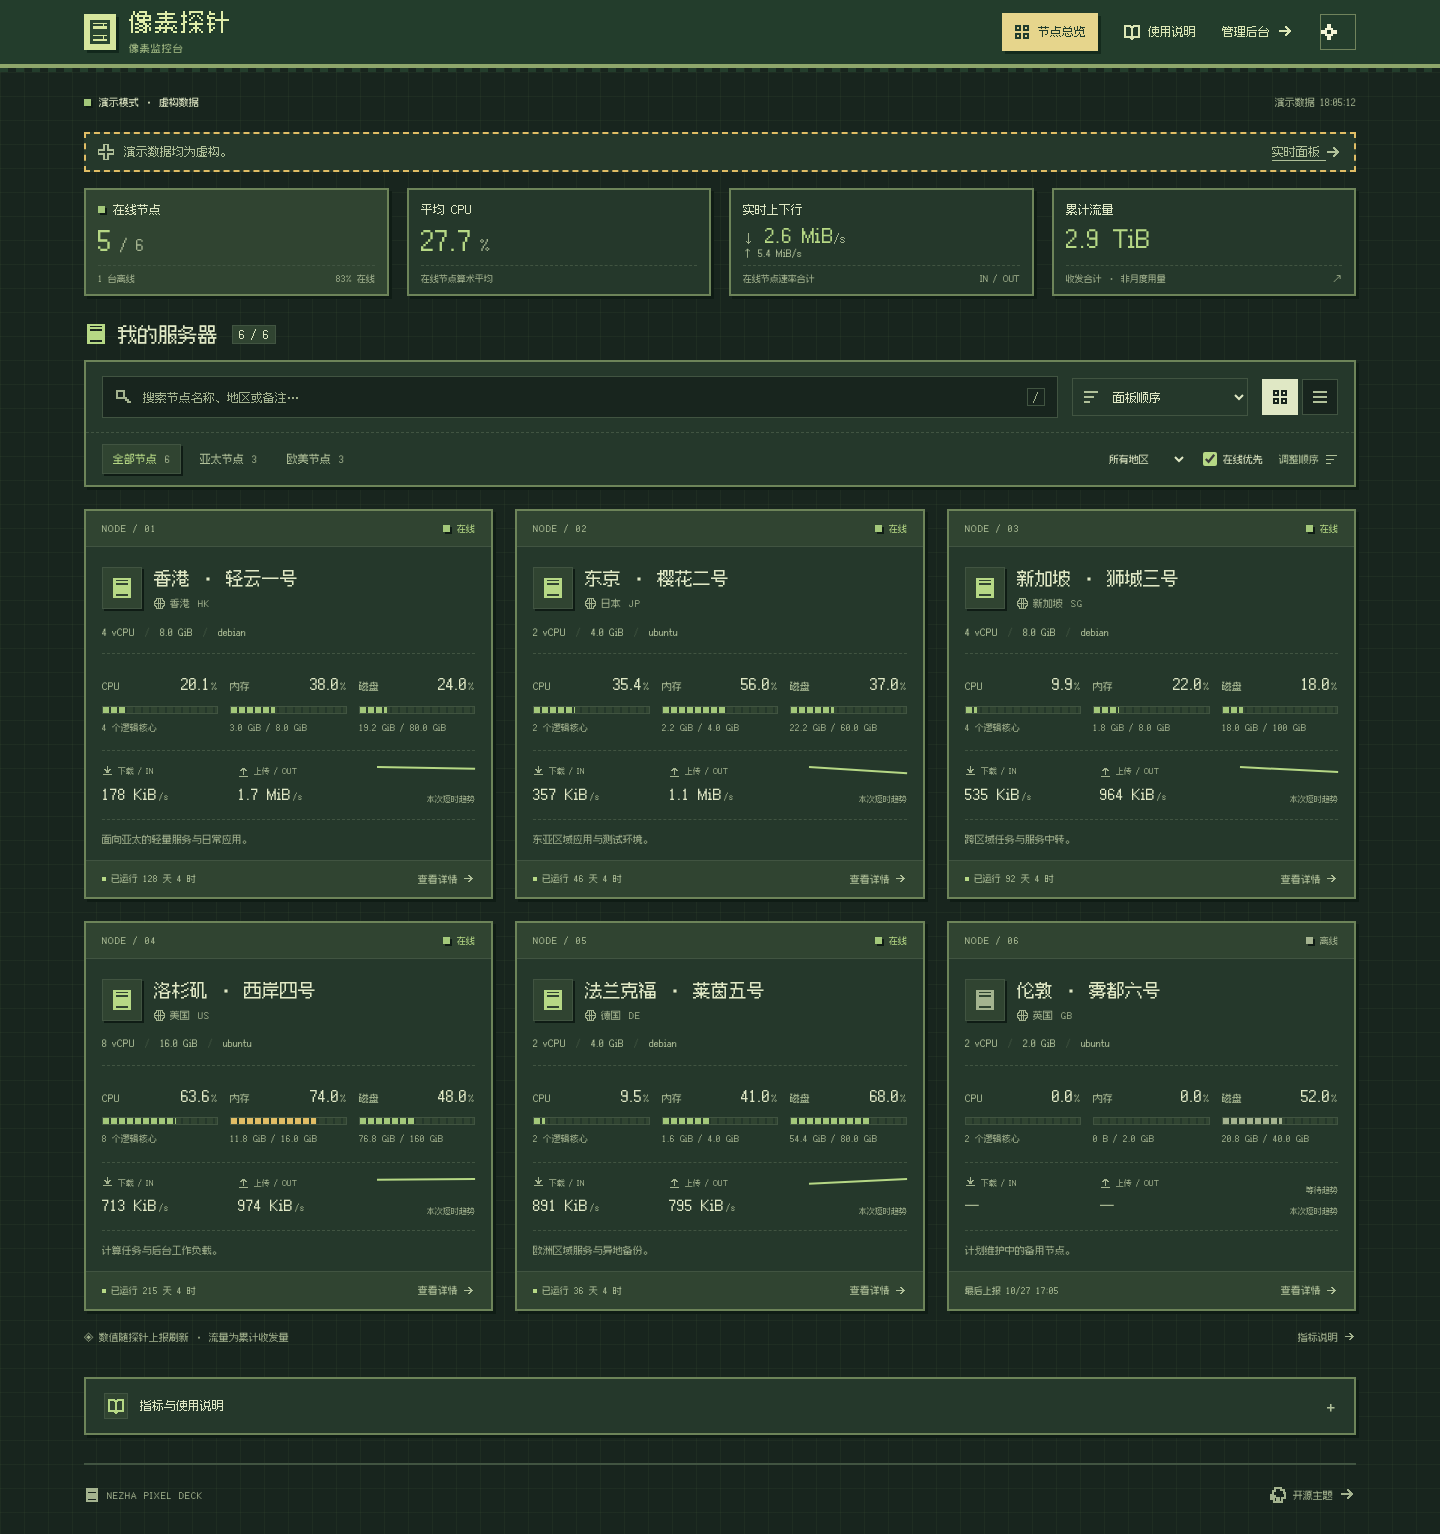
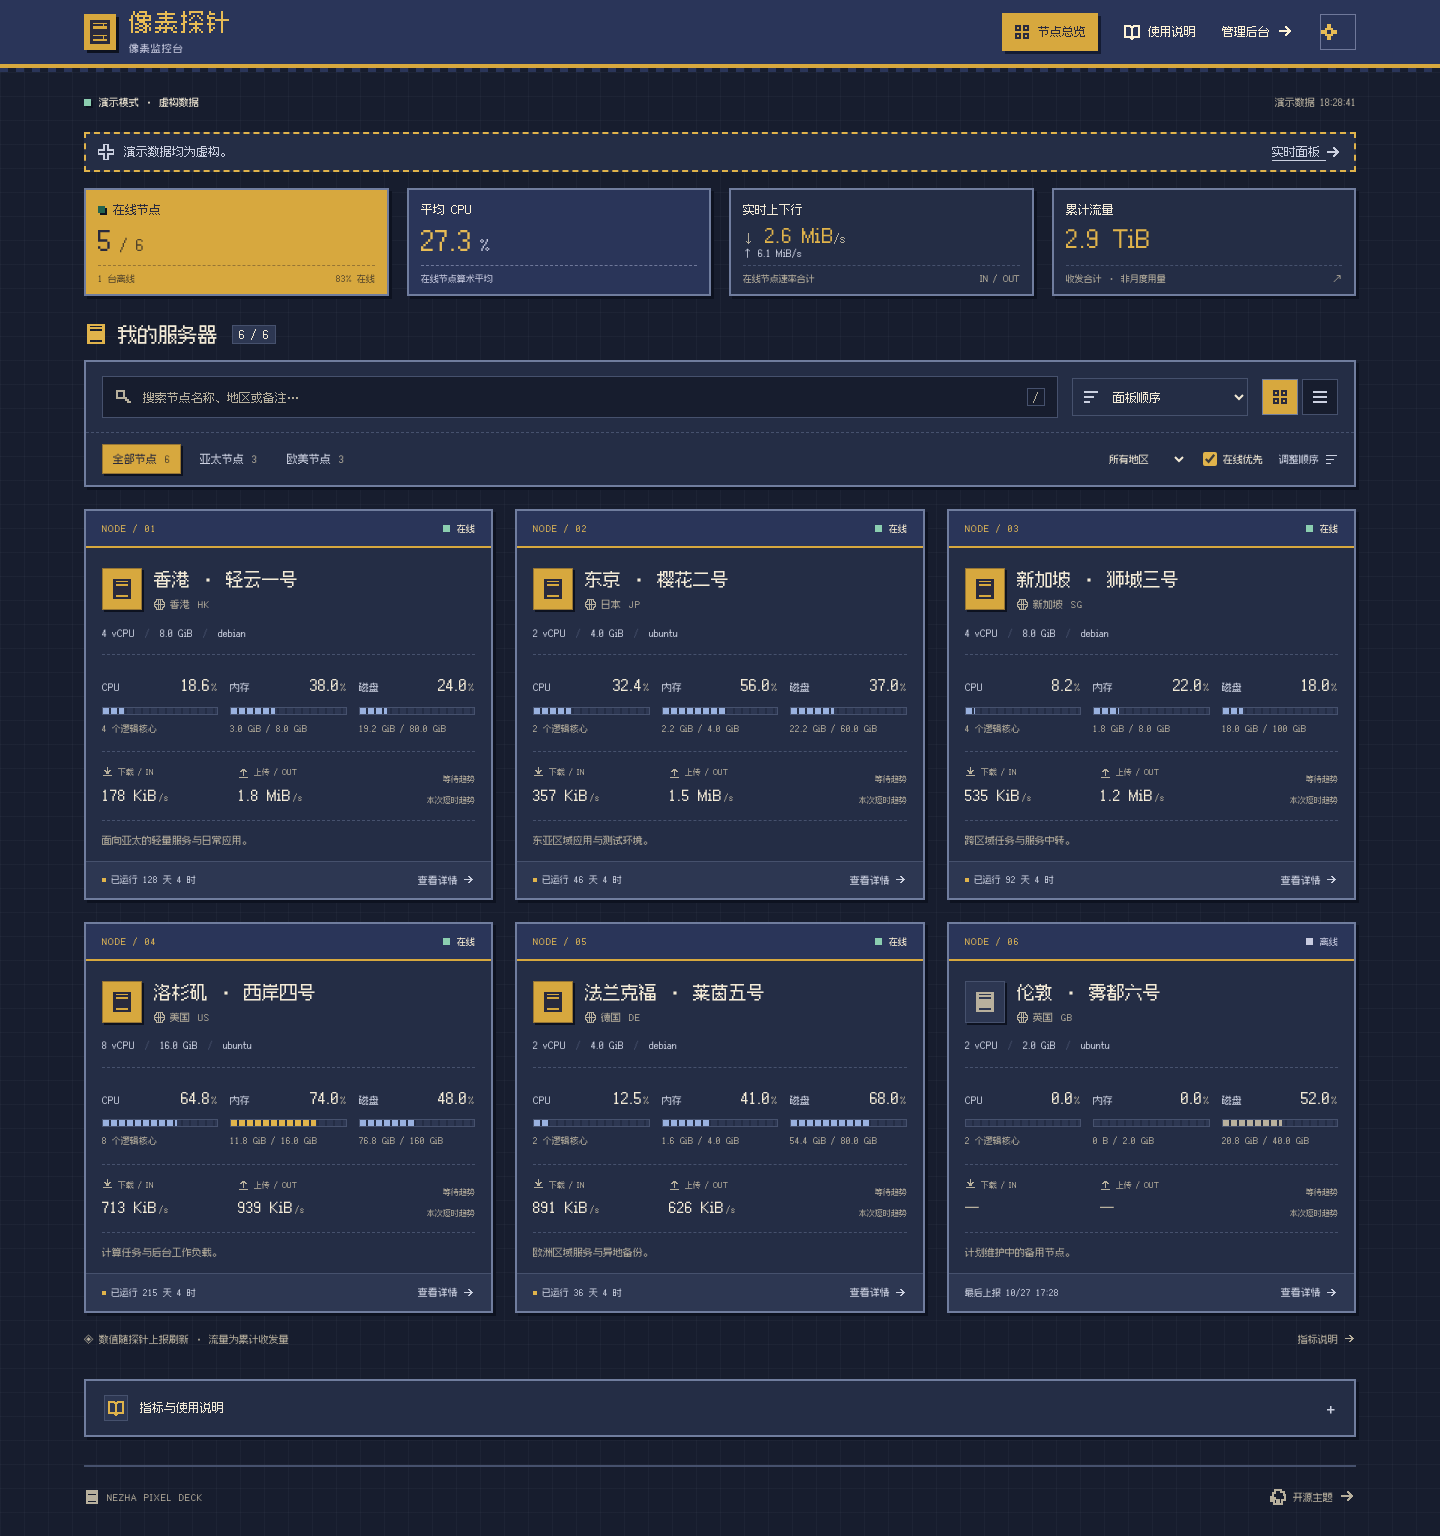
feat: use mustard yellow and indigo pixel palette

diff --git a/src/style.css b/src/style.css
@@ -9,42 +9,51 @@
 :root {
   font-family: Pixel, ui-monospace, monospace;
   color: var(--ink);
-  background: #eff2db;
-  --bg: #eff2db;
-  --ink: #263e2c;
-  --secondary: #566a45;
-  --muted: #6d7d57;
-  --line: #c5d0a4;
-  --frame: #3f5838;
-  --panel: #fcfcea;
-  --panel-alt: #e8edce;
-  --accent: #517437;
-  --lime: #d9ec9a;
-  --gold: #ead58d;
-  --shadow: #c5d19e;
-  --good: #6b914c;
-  --warning: #b18b35;
-  --danger: #ba5b4e;
+  background: var(--bg);
+  --bg: #f6f0e3;
+  --ink: #28324f;
+  --secondary: #51566d;
+  --muted: #716956;
+  --line: #d7c9a8;
+  --frame: #35405f;
+  --panel: #fffaf0;
+  --panel-alt: #eee7d7;
+  --accent: #465b91;
+  --mustard: #d7a83e;
+  --mustard-hover: #e8bc55;
+  --on-mustard: #292a3d;
+  --mustard-muted: #51432b;
+  --mustard-line: #967534;
+  --header: #2a3559;
+  --on-header: #fff3d6;
+  --header-muted: #c8cbe0;
+  --header-line: #6f789a;
+  --shadow: #c5b58e;
+  --grid: #8c754518;
+  --good: #48648e;
+  --online: #24745b;
+  --warning: #bd861e;
+  --danger: #bd5244;
   --radius: 0;
   font-synthesis: none;
   color-scheme: light;
 }
 :root[data-theme="dark"] {
-  --bg: #18251e;
-  --ink: #e0e8c5;
-  --secondary: #b0c099;
-  --muted: #a4b38f;
-  --line: #415441;
-  --frame: #6d8459;
-  --panel: #25382b;
-  --panel-alt: #304431;
-  --accent: #b6d885;
-  --lime: #d9ec9a;
-  --gold: #e8cd87;
-  --shadow: #0f1c15;
-  --good: #a3c87a;
-  --warning: #e0bd65;
-  --danger: #ed9183;
+  --bg: #171d2e;
+  --ink: #f3ead6;
+  --secondary: #cbd0e0;
+  --muted: #b8b09d;
+  --line: #46516d;
+  --frame: #707d9e;
+  --panel: #242d45;
+  --panel-alt: #2d3752;
+  --accent: #e0b34b;
+  --shadow: #0d1220;
+  --grid: #b5bddd0a;
+  --good: #99b1df;
+  --online: #8bceb0;
+  --warning: #e0b34b;
+  --danger: #ee947f;
   color-scheme: dark;
 }
 * {
@@ -59,8 +68,8 @@ body {
   min-width: 320px;
   background-color: var(--bg);
   background-image:
-    linear-gradient(#78945513 1px, transparent 1px),
-    linear-gradient(90deg, #78945513 1px, transparent 1px);
+    linear-gradient(var(--grid) 1px, transparent 1px),
+    linear-gradient(90deg, var(--grid) 1px, transparent 1px);
   background-size: 24px 24px;
   font-size: 12px;
   line-height: 1.65;
@@ -148,8 +157,8 @@ option {
   top: -80px;
   left: 20px;
   z-index: 20;
-  background: var(--lime);
-  color: #263e2c;
+  background: var(--mustard);
+  color: var(--on-mustard);
   padding: 12px;
 }
 .skip-link:focus {
@@ -166,9 +175,9 @@ option {
   box-shadow: 3px 3px 0 var(--shadow);
 }
 .topbar {
-  background: #233d2c;
-  color: #dce7b6;
-  border-bottom: 4px solid #8ea66b;
+  background: var(--header);
+  color: var(--on-header);
+  border-bottom: 4px solid var(--mustard);
   position: relative;
 }
 .topbar:after {
@@ -180,7 +189,7 @@ option {
   height: 4px;
   background: repeating-linear-gradient(
     90deg,
-    #233d2c 0 8px,
+    var(--header) 0 8px,
     transparent 8px 16px
   );
 }
@@ -202,9 +211,9 @@ option {
 .brand-mark {
   width: 32px;
   height: 36px;
-  background: #d6e69d;
-  color: #294631;
-  box-shadow: 3px 3px #12281c;
+  background: var(--mustard);
+  color: var(--on-mustard);
+  box-shadow: 3px 3px var(--shadow);
   display: grid;
   place-items: center;
 }
@@ -218,14 +227,14 @@ option {
   font-weight: 400;
   line-height: 1.15;
   letter-spacing: 2px;
-  color: #e0edaa;
+  color: var(--mustard-hover);
 }
 .brand small {
   display: block;
   font-size: 10px;
   margin-top: 4px;
   letter-spacing: 1px;
-  color: #a8bf88;
+  color: var(--header-muted);
 }
 .topbar nav {
   display: flex;
@@ -241,18 +250,18 @@ option {
   white-space: nowrap;
 }
 .topbar nav .nav-current {
-  color: #203c2c;
-  background: #e6d58c;
+  color: var(--on-mustard);
+  background: var(--mustard);
   padding: 8px 12px;
-  box-shadow: 3px 3px #142b1d;
+  box-shadow: 3px 3px #141c34;
 }
 .topbar nav > a:hover,
 .topbar nav > button:hover {
-  color: #f5f5d7;
+  color: var(--mustard-hover);
 }
 .topbar nav .nav-current:hover {
-  color: #203c2c;
-  background: #f3e4a6;
+  color: var(--on-mustard);
+  background: var(--mustard-hover);
 }
 .icon-button {
   display: inline-grid;
@@ -262,7 +271,7 @@ option {
   height: 36px;
 }
 .topbar #theme-button {
-  border: 1px solid #70835c;
+  border: 1px solid var(--header-line);
   min-height: 34px;
 }
 .shell {
@@ -295,7 +304,7 @@ option {
   display: inline-block;
   width: 7px;
   height: 7px;
-  background: var(--good);
+  background: var(--online);
   box-shadow: 2px 2px var(--shadow);
   flex: none;
 }
@@ -334,7 +343,19 @@ option {
   flex-direction: column;
 }
 .stat-online {
-  background: var(--panel-alt);
+  --accent: var(--on-mustard);
+  --muted: var(--mustard-muted);
+  --line: var(--mustard-line);
+  --online: #24644f;
+  background: var(--mustard);
+  color: var(--on-mustard);
+}
+.stat:nth-child(2) {
+  --accent: var(--mustard-hover);
+  --muted: var(--header-muted);
+  --line: var(--header-line);
+  background: var(--header);
+  color: var(--on-header);
 }
 .stat-label {
   display: flex;
@@ -497,9 +518,9 @@ option {
   color: var(--secondary);
 }
 .view-buttons button[aria-pressed="true"] {
-  background: var(--ink);
-  border-color: var(--ink);
-  color: var(--bg);
+  background: var(--mustard);
+  border-color: var(--frame);
+  color: var(--on-mustard);
 }
 .filters {
   display: flex;
@@ -525,10 +546,13 @@ option {
   border: 1px solid transparent;
 }
 .tab.active {
-  background: var(--panel-alt);
-  border-color: var(--line);
-  color: var(--accent);
+  background: var(--mustard);
+  border-color: var(--mustard-line);
+  color: var(--on-mustard);
   box-shadow: 2px 2px var(--shadow);
+}
+.tab.active small {
+  color: var(--mustard-muted);
 }
 .tab small {
   font-size: 10px;
@@ -617,20 +641,27 @@ option {
   justify-content: space-between;
   align-items: center;
   padding: 10px 16px;
-  background: var(--panel-alt);
-  border-bottom: 1px solid var(--line);
+  background: var(--header);
+  border-bottom: 2px solid var(--mustard);
   font-size: 9px;
   letter-spacing: 1px;
 }
 .node-number {
-  color: var(--secondary);
+  color: var(--mustard-hover);
 }
 .node-status {
   display: flex;
   align-items: center;
   gap: 7px;
   letter-spacing: 0;
-  color: var(--accent);
+  color: var(--on-header);
+}
+.card-top .status-dot {
+  background: #8bceb0;
+  box-shadow: none;
+}
+.card-top .status-dot.offline {
+  background: var(--header-muted);
 }
 .node-title {
   display: flex;
@@ -641,12 +672,12 @@ option {
 .node-avatar {
   display: grid;
   place-items: center;
-  background: var(--panel-alt);
-  border: 1px solid var(--line);
+  background: var(--mustard);
+  border: 1px solid var(--mustard-line);
   width: 40px;
   height: 42px;
   box-shadow: 2px 2px var(--shadow);
-  color: var(--accent);
+  color: var(--on-mustard);
   flex: none;
 }
 .node-avatar .icon {
@@ -869,10 +900,12 @@ option {
   height: 12px;
 }
 .is-offline .node-avatar {
+  background: var(--panel-alt);
+  border-color: var(--line);
   color: var(--muted);
 }
 .is-offline .node-status {
-  color: var(--muted);
+  color: var(--header-muted);
 }
 .is-offline .meter > span {
   background: var(--muted);
@@ -1049,7 +1082,7 @@ dialog {
   overscroll-behavior: contain;
 }
 dialog::backdrop {
-  background: #102919a8;
+  background: #10182bc4;
 }
 .detail-heading {
   display: flex;
@@ -1139,7 +1172,7 @@ dialog::backdrop {
   width: 5px;
   border: none;
   padding: 0;
-  background: var(--accent);
+  background: var(--mustard);
 }
 .compact .node-number,
 .compact .node-status,

diff --git a/src/main.ts b/src/main.ts
@@ -106,7 +106,7 @@ app.innerHTML = `
 <div id="connection-notice" class="connection-notice" role="status" hidden></div>
 <div id="node-grid" class="node-grid" aria-label="服务器列表"></div>
 <div class="fleet-footnote"><span>◈ 数值随探针上报刷新 · 流量为累计收发量</span><a href="#guide" id="guide-link">指标说明 ${icon("arrow")}</a></div></section>
-<details class="guide frame" id="guide"><summary class="guide-heading"><span class="guide-mark">${icon("book")}</span><span class="guide-title">指标与使用说明</span><span class="guide-toggle" aria-hidden="true">+</span></summary><div class="guide-grid"><article><h3>资源使用率</h3><p>CPU 是当前使用率；内存与磁盘为已用容量占总量的比例。绿色表示余量充足，70% 起变为黄色，90% 起变为红色。</p></article><article><h3>上下行与累计流量</h3><p>↓ 是服务器接收，↑ 是服务器发送；速率单位为字节每秒。累计流量来自探针计数，通常随系统重启归零，不代表本月账单。</p></article><article><h3>在线与数据时效</h3><p>最近 30 秒有探针上报才算在线。断线或数据过期时，页面会明确提示，并把旧读数标为快照，避免误判为实时状态。</p></article></div><details class="more-guide"><summary>排序、隐私与更多说明 <span>+</span></summary><div><p><b>排序：</b>默认按后台展示权重降序、ID 升序排列。可按名称、地区、CPU、内存、累计流量或运行时长排序。「在线优先」会先分在线 / 离线，再应用选定顺序。</p><p><b>我的顺序：</b>通过「调整顺序」前移或后移节点，仅保存在当前浏览器。管理员可使用独立站点配置中的 serverOrder 给所有访客指定默认顺序。</p><p><b>节点详情：</b>点击节点名称或「查看详情」，查看硬件、负载、连接数和本次打开页面后的短时趋势。缺失字段显示 —，趋势不等同于历史监控。</p><p><b>隐私：</b>页面只读取当前访问权限允许的哪吒数据。隐藏节点与敏感信息必须由哪吒后台限制；前端别名、折叠备注或不展示字段不能替代后端权限。</p></div></details></details>
+<details class="guide frame" id="guide"><summary class="guide-heading"><span class="guide-mark">${icon("book")}</span><span class="guide-title">指标与使用说明</span><span class="guide-toggle" aria-hidden="true">+</span></summary><div class="guide-grid"><article><h3>资源使用率</h3><p>CPU 是当前使用率；内存与磁盘为已用容量占总量的比例。蓝色表示余量充足，70% 起变为姜黄色，90% 起变为珊瑚红色。</p></article><article><h3>上下行与累计流量</h3><p>↓ 是服务器接收，↑ 是服务器发送；速率单位为字节每秒。累计流量来自探针计数，通常随系统重启归零，不代表本月账单。</p></article><article><h3>在线与数据时效</h3><p>最近 30 秒有探针上报才算在线。断线或数据过期时，页面会明确提示，并把旧读数标为快照，避免误判为实时状态。</p></article></div><details class="more-guide"><summary>排序、隐私与更多说明 <span>+</span></summary><div><p><b>排序：</b>默认按后台展示权重降序、ID 升序排列。可按名称、地区、CPU、内存、累计流量或运行时长排序。「在线优先」会先分在线 / 离线，再应用选定顺序。</p><p><b>我的顺序：</b>通过「调整顺序」前移或后移节点，仅保存在当前浏览器。管理员可使用独立站点配置中的 serverOrder 给所有访客指定默认顺序。</p><p><b>节点详情：</b>点击节点名称或「查看详情」，查看硬件、负载、连接数和本次打开页面后的短时趋势。缺失字段显示 —，趋势不等同于历史监控。</p><p><b>隐私：</b>页面只读取当前访问权限允许的哪吒数据。隐藏节点与敏感信息必须由哪吒后台限制；前端别名、折叠备注或不展示字段不能替代后端权限。</p></div></details></details>
 <footer><a class="footer-brand" href="https://github.com/xuanvivo/nezha-pixel-deck" target="_blank" rel="noreferrer">${icon("server")} NEZHA PIXEL DECK</a><a href="https://github.com/xuanvivo/nezha-pixel-deck" target="_blank" rel="noreferrer">${icon("github")}开源主题 ${icon("arrow")}</a></footer>
 </main><dialog id="detail" aria-labelledby="detail-title"><div id="detail-body"></div></dialog><div id="announcement" class="sr-only" role="status" aria-live="polite"></div>`;
 

diff --git a/tests/dashboard.spec.ts b/tests/dashboard.spec.ts
@@ -37,7 +37,7 @@ test("manual order survives reload and deep theme preference persists", async ({
   await page.reload();
   await expect(page.locator(".node-name").first()).toContainText("东京");
   await expect(page.locator("html")).toHaveAttribute("data-theme", "dark");
-  await expect(page.locator("body")).toHaveCSS("color", "rgb(224, 232, 197)");
+  await expect(page.locator("body")).toHaveCSS("color", "rgb(243, 234, 214)");
 });
 test("live mode reads same-origin v2 frames and escapes public notes", async ({
   page,

diff --git a/index.html b/index.html
@@ -3,7 +3,7 @@
   <head>
     <meta charset="UTF-8" />
     <meta name="viewport" content="width=device-width, initial-scale=1.0" />
-    <meta name="theme-color" content="#203c2c" />
+    <meta name="theme-color" content="#2a3559" />
     <meta
       name="description"
       content="哪吒 v2 服务器实时监控：在线状态、资源使用率、流量与排序。"

diff --git a/README.md b/README.md
@@ -8,7 +8,7 @@
 
 ## 有什么
 
-- 深度像素界面：本地中文像素字体、硬边框、方块图标、分段资源条和深浅色主题。
+- 深度像素界面：姜黄色 × 深靛蓝撞色、本地中文像素字体、硬边框、方块图标、分段资源条和深浅色主题。
 - 实时状态：在线数、CPU、内存、磁盘、收发速率、累计流量、运行时间。
 - 灵活排序：后台权重、名称、地区、CPU、内存、累计流量、运行时间、自定义前移 / 后移；支持在线优先。
 - 搜索与筛选：名称、地区、备注全文搜索，后台分组与地区筛选，卡片 / 紧凑视图。
